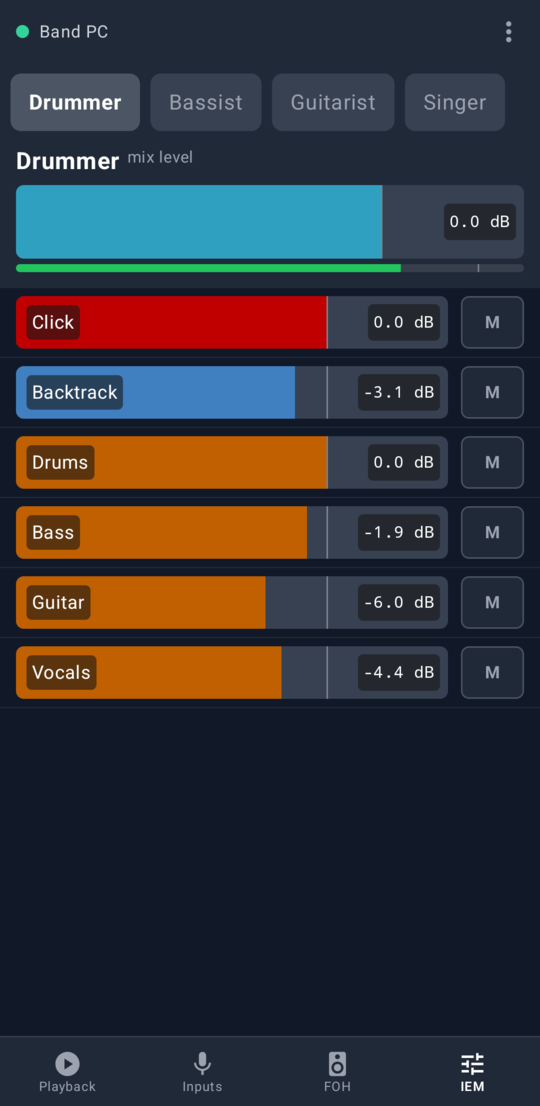
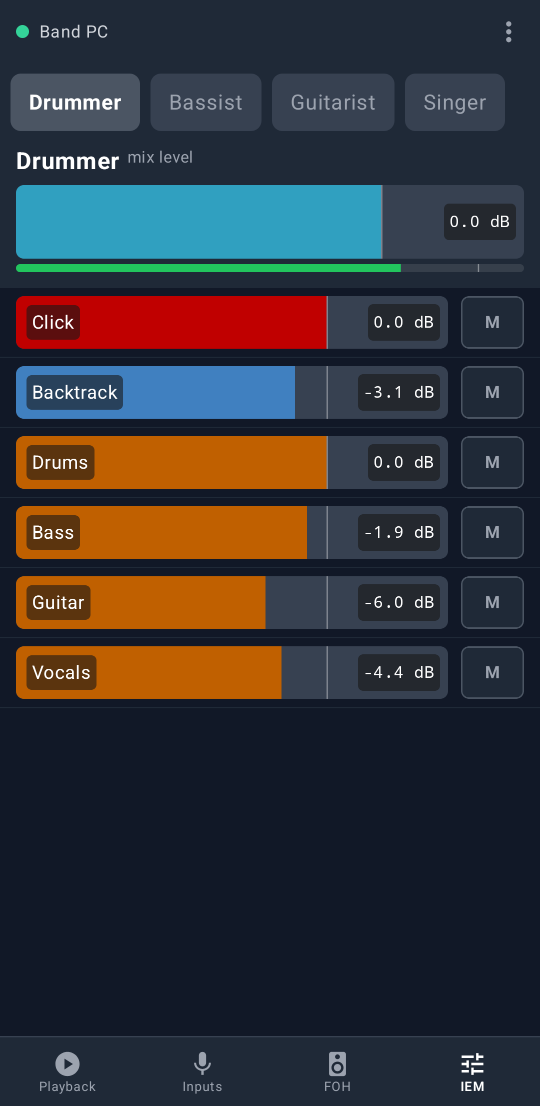
docs: screenshots only change when their pixels do
The test scales app screenshots on the device, and docs-screenshots.sh keeps an existing screenshot when the new
one has the same pixels, so different PNG encoders no longer show up as changes. The REAPER screenshots are the
CI ones, with REAPER's bold font (the fonts of GitHub's runner image).

Changed region(s): [[0.0593, 0.4611, 0.1185, 0.4919]]

diff --git a/android/app/src/androidTest/kotlin/dev/nikarh/bandcontrol/app/ScreenshotTest.kt b/android/app/src/androidTest/kotlin/dev/nikarh/bandcontrol/app/ScreenshotTest.kt
@@ -28,6 +28,9 @@ import java.io.File
 import java.net.InetSocketAddress
 import java.net.Socket
 
+/** Width of the screenshots in docs/screenshots. */
+private const val WIDTH = 540
+
 /**
  * Saves the app screenshots of the README and the website, from a fixed state of the simulated example project.
  * Run by `scripts/docs-screenshots.sh app`; the names match `docs/features.toml`.
@@ -69,7 +72,9 @@ class ScreenshotTest {
             top = insets?.getInsets(WindowInsetsCompat.Type.statusBars())?.top ?: 0
             bottom = insets?.getInsets(WindowInsetsCompat.Type.navigationBars())?.bottom ?: 0
         }
-        val bitmap = Bitmap.createBitmap(full, 0, top, full.width, full.height - top - bottom)
+        val cropped = Bitmap.createBitmap(full, 0, top, full.width, full.height - top - bottom)
+        // Scaled here rather than on the computer, so the result doesn't depend on its image tools.
+        val bitmap = Bitmap.createScaledBitmap(cropped, WIDTH, (cropped.height * WIDTH + cropped.width / 2) / cropped.width, true)
         File(out, "$name.png").outputStream().use { bitmap.compress(Bitmap.CompressFormat.PNG, 100, it) }
     }
 
